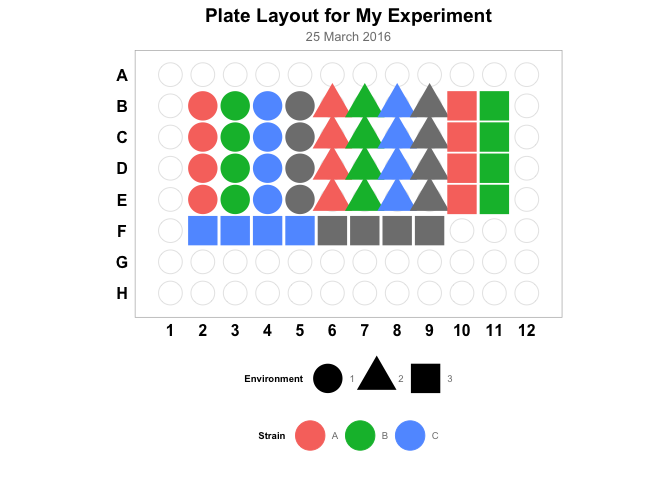
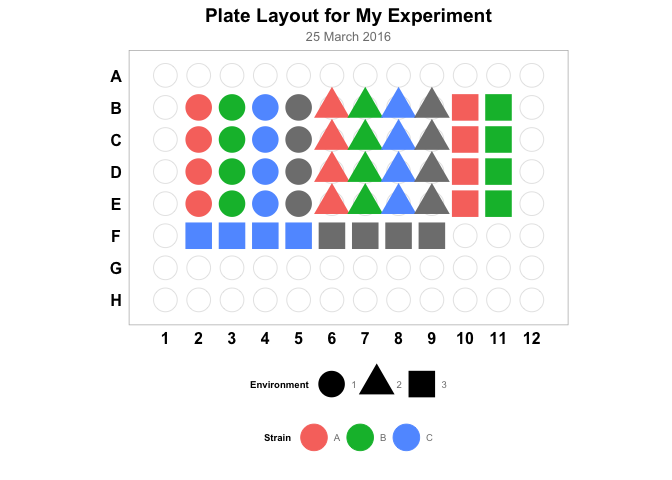
README update

diff --git a/README.md b/README.md
@@ -129,7 +129,7 @@ figures that represent 96-well microtiter plates.
     ggplot(data = platemap, aes(x = Column, y = Row)) +
         geom_point(data = expand.grid(Column = seq(1,12), Row = seq(1,8)),
                    color = "grey90", fill = "white", shape = 21, size = 8) +
-        geom_point(aes(shape = Environment, colour = Strain), size = 10) +
+        geom_point(aes(shape = Environment, colour = Strain), size = 9) +
         coord_fixed(ratio = (13/12)/(9/8), xlim = c(0.5, 12.5), ylim = c(0.6, 8.4)) +
         scale_y_reverse(breaks = seq(1,8), labels = LETTERS[1:8]) +
         scale_x_continuous(breaks = seq(1,12)) +
